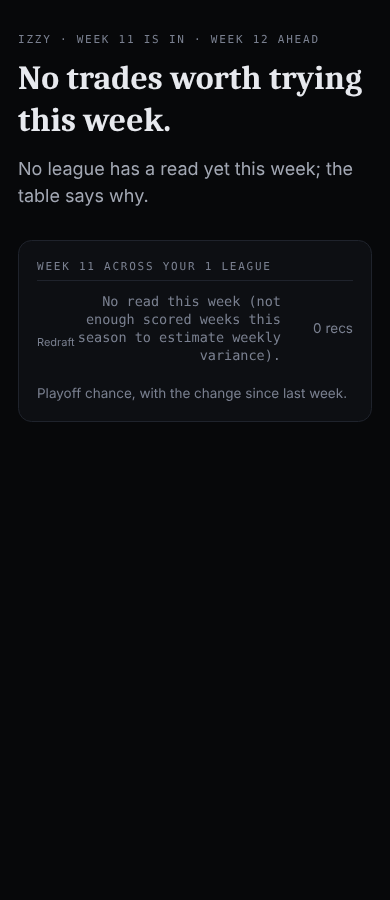
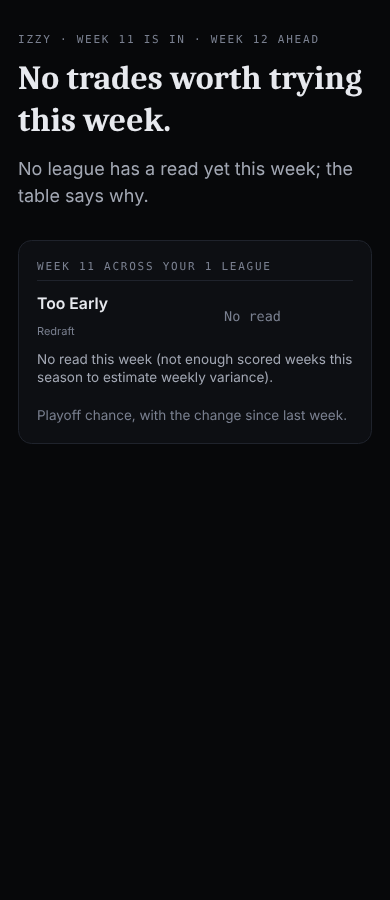
fix(home): design-qa layout fixes (refused row, empty recs, phone scale labels)
Claude-Session: https://claude.ai/code/session_014dZxKdMwGnYBLxPUViVhvP

Changed region(s): [[0.0923, 0.3111, 0.8923, 0.4667]]

diff --git a/src/components/home/decision-feed.tsx b/src/components/home/decision-feed.tsx
@@ -102,7 +102,7 @@ export function AnalystScale({ voices, direction }: { voices: DecisionVoice[]; d
       <div className="mt-1 grid grid-cols-5 border-t-2 border-border-strong pt-2 text-center">
         {labels.map((label, col) => (
           <div key={label} className="flex flex-col items-center gap-1">
-            <span className="min-h-4 text-[11px] text-muted-2">{label}</span>
+            <span className="min-h-4 px-0.5 text-[10px] leading-tight text-muted-2 sm:text-[11px]">{label}</span>
             {voices
               .filter((v) => COLUMN[v.stance] === col)
               .map((v) => (
@@ -297,7 +297,7 @@ export function WeekTable({
               </a>
               <span className="text-right font-mono text-xs">
                 {r.refused_reason ? (
-                  <span className="text-muted-2">{r.refused_reason}</span>
+                  <span className="text-muted-2">No read</span>
                 ) : r.playoffs != null ? (
                   <>
                     {pct(r.playoffs)}
@@ -314,8 +314,9 @@ export function WeekTable({
                   {r.recs} rec{r.recs === 1 ? "" : "s"} →
                 </a>
               ) : (
-                <span className="min-w-14 text-right text-xs text-muted-2">0 recs</span>
+                <span className="min-w-14" aria-hidden />
               )}
+              {r.refused_reason && <p className="col-span-3 text-xs text-muted">{r.refused_reason}</p>}
             </li>
           );
         })}
